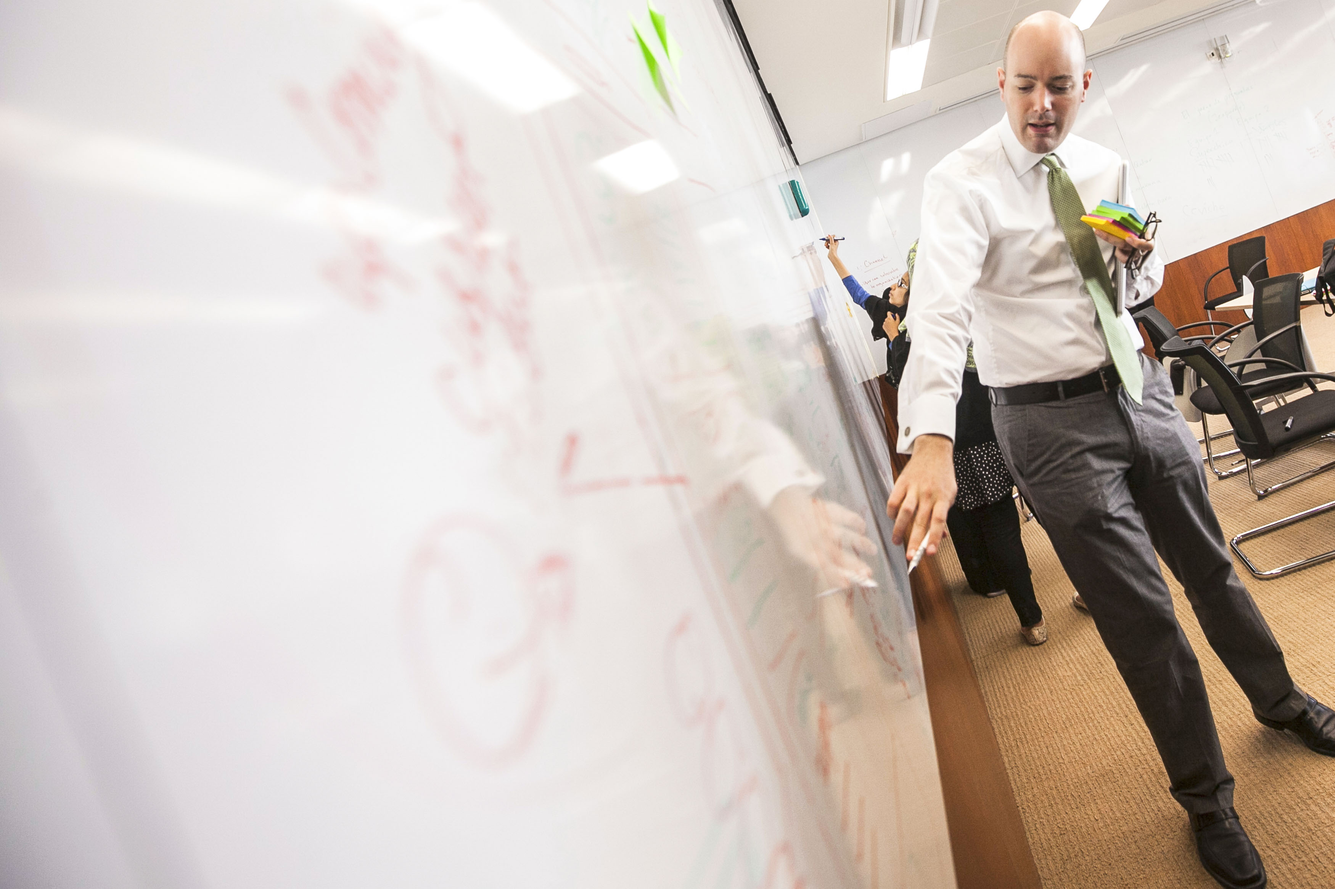
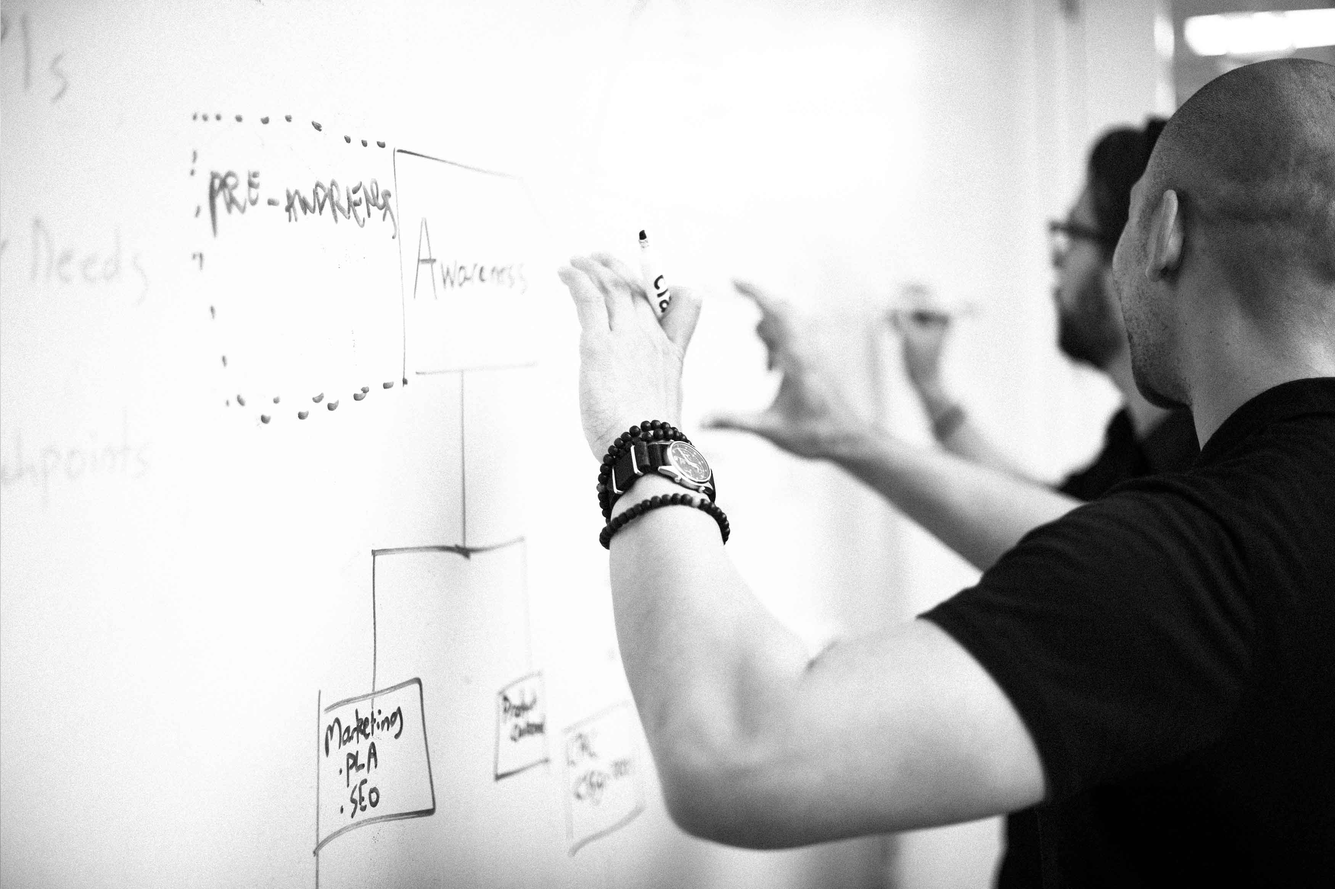
changing hero image on work.html

diff --git a/_includes/work.html b/_includes/work.html
@@ -87,7 +87,7 @@ Whiteboarding on Retainer</p>
 </section>
 
 <!-- STANDARD IMAGE SMALL -->
-<section class="module bg-dark-60" data-background="assets/images/hero-postits.jpg">
+<section class="module bg-dark-60" data-background="assets/images/hero-whiteboard.jpg">
 <div class="container">
 <!-- MODULE TITLE -->
 <div class="row">
